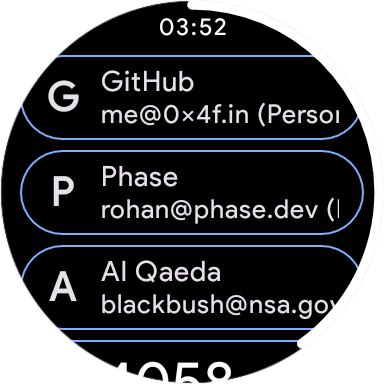
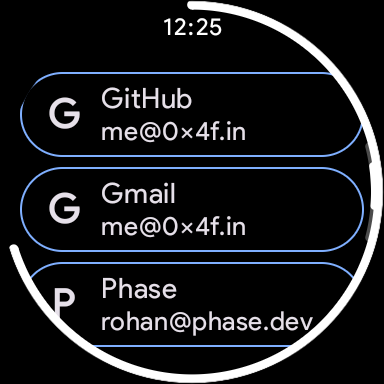
fixed a clock bug

diff --git a/app/src/main/java/zeroxfourf/wristkey/ManualEntryActivity.kt b/app/src/main/java/zeroxfourf/wristkey/ManualEntryActivity.kt
@@ -23,6 +23,9 @@ class ManualEntryActivity : AppCompatActivity() {
 
     lateinit var utilities: Utilities
 
+    private lateinit var clock: TextView
+    lateinit var mfaCodesTimer: Timer
+
     private lateinit var issuerInput: TextInputEditText
     private lateinit var labelInput: TextInputEditText
     private lateinit var secretInput: TextInputEditText
@@ -50,7 +53,6 @@ class ManualEntryActivity : AppCompatActivity() {
     private lateinit var periodText: TextView
     private lateinit var periodSlider: Slider
 
-
     private var counter: Long = 0
     private lateinit var counterInput: TextInputEditText
     private lateinit var counterLayout: TextInputLayout
@@ -58,8 +60,6 @@ class ManualEntryActivity : AppCompatActivity() {
     private lateinit var doneButton: Button
     private lateinit var deleteButton: Button
     private lateinit var backButton: Button
-
-    private lateinit var uuid: String
 
     private lateinit var data: Utilities.MfaCode
 
@@ -71,7 +71,7 @@ class ManualEntryActivity : AppCompatActivity() {
         window.addFlags(WindowManager.LayoutParams.FLAG_SECURE)
 
         utilities = Utilities(applicationContext)
-        uuid = UUID.randomUUID().toString()
+        mfaCodesTimer = Timer()
 
         initializeUI()
 
@@ -82,7 +82,40 @@ class ManualEntryActivity : AppCompatActivity() {
 
     }
 
+    private fun startClock () {
+        if (!utilities.db.getBoolean(utilities.SETTINGS_CLOCK_ENABLED, true)) clock.visibility = View.GONE
+
+        try {
+            mfaCodesTimer.scheduleAtFixedRate(object : TimerTask() {
+                override fun run() {
+                    runOnUiThread { clock.text = utilities.getTime() }
+                }
+            }, 0, 1000)
+        } catch (_: IllegalStateException) { }
+    }
+
+
+    override fun onStop() {
+        super.onStop()
+        mfaCodesTimer.cancel()
+    }
+
+    override fun onDestroy() {
+        super.onDestroy()
+        mfaCodesTimer.cancel()
+        finish()
+    }
+
+    override fun onStart() {
+        super.onStart()
+        mfaCodesTimer = Timer()
+    }
+
     private fun initializeUI () {
+
+        clock = findViewById(R.id.clock)
+        startClock()
+
         issuerInput = findViewById (R.id.issuerInput)
         labelInput = findViewById (R.id.labelInput)
         secretInput = findViewById (R.id.secretInput)

diff --git a/app/src/main/java/zeroxfourf/wristkey/AdbImportActivity.kt b/app/src/main/java/zeroxfourf/wristkey/AdbImportActivity.kt
@@ -7,6 +7,7 @@ import android.net.Uri
 import android.os.Bundle
 import android.view.View
 import android.widget.Button
+import android.widget.ProgressBar
 import android.widget.TextView
 import android.widget.Toast
 import androidx.appcompat.app.AppCompatActivity
@@ -30,6 +31,9 @@ class AdbImportActivity : AppCompatActivity() {
     lateinit var utilities: Utilities
     lateinit var storageHelper: SimpleStorageHelper
 
+    lateinit var progress: ProgressBar
+    lateinit var progressRound: ProgressBar
+
     private lateinit var clock: TextView
 
     var isRound: Boolean = false
@@ -51,6 +55,11 @@ class AdbImportActivity : AppCompatActivity() {
     private fun initializeUI () {
         setContentView(R.layout.activity_adb_import)
 
+        progress = findViewById(R.id.progress)
+        progressRound = findViewById(R.id.progressRound)
+
+        setShape()
+
         clock = findViewById(R.id.clock)
         startClock()
 
@@ -69,6 +78,18 @@ class AdbImportActivity : AppCompatActivity() {
         }
 
     }
+
+    private fun setShape() {
+        isRound = utilities.db.getBoolean(
+            utilities.CONFIG_SCREEN_ROUND,
+            resources.configuration.isScreenRound
+        )
+        if (isRound) {
+            progressRound.visibility = View.VISIBLE
+            progress.visibility = View.GONE
+        } else progressRound.visibility = View.GONE
+    }
+
 
     private fun startClock () {
         if (!utilities.db.getBoolean(utilities.SETTINGS_CLOCK_ENABLED, true)) clock.visibility = View.GONE

diff --git a/app/src/main/java/zeroxfourf/wristkey/MainActivity.kt b/app/src/main/java/zeroxfourf/wristkey/MainActivity.kt
@@ -93,10 +93,21 @@ class MainActivity : AppCompatActivity() {
 
     override fun onResume() {
         super.onResume()
-        if (!isTimerRunning && unlocked) {
-            initializeUI()
-            startTimer()
-            isTimerRunning = true
+
+        val lockScreenEnabled = utilities.db.getBoolean(utilities.SETTINGS_LOCK_ENABLED, false)
+
+        if (lockScreenEnabled) {
+            if (!isTimerRunning && unlocked) {
+                initializeUI()
+                startTimer()
+                isTimerRunning = true
+            }
+        } else {
+            if (!isTimerRunning) {
+                initializeUI()
+                startTimer()
+                isTimerRunning = true
+            }
         }
     }
 
@@ -155,8 +166,8 @@ class MainActivity : AppCompatActivity() {
             utilities.CONFIG_SCREEN_ROUND,
             resources.configuration.isScreenRound
         )
-        if (isRound) roundTimeLeft.visibility = View.VISIBLE else roundTimeLeft.visibility =
-            View.GONE
+        if (isRound) roundTimeLeft.visibility = View.VISIBLE
+        else roundTimeLeft.visibility = View.GONE
     }
 
     private fun initializeUI() {
